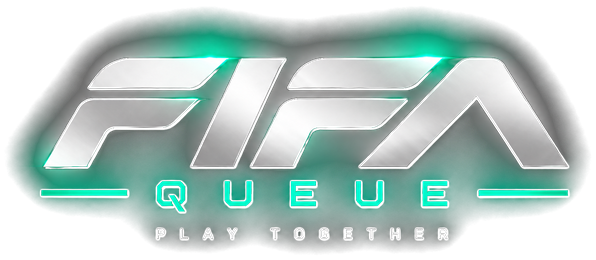
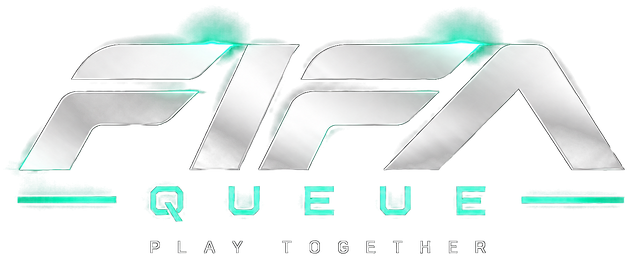
Actually cut the wordmark's diffuse bloom instead of just softening it
The luminance ramp from the previous fix still kept the whole soft
background glow, just with anti-aliased edges -- on a real device that
still reads as a grey cloud smeared behind the letters, not a halo.

The real issue: the background bloom and the letters' own chrome body
share the same tone (light grey/white), just spread over a much wider
area -- no single brightness cutoff can tell them apart. Switched to
two narrower, more specific signals instead: near-white and close to
achromatic for the chrome body/text, or a clear excess of green over
red/blue for the teal accent -- both ignore the diffuse bloom
entirely, since it is neither bright enough to pass the tighter white
cutoff nor saturated enough to read as teal. Spread each pixel's
brightness by a couple of px first (a max filter) so the tagline's
thin strokes do not drop below the cutoff just for being one pixel
wide.

Checked against both a light and a dark background this time, side by
side with the official mark for reference.

diff --git a/design/brand/generate_derivatives.py b/design/brand/generate_derivatives.py
@@ -12,7 +12,7 @@ como referencia historica.
 So faz resize/pad sobre fundo branco identico ao das artes originais -- nunca
 recorta, redesenha ou distorce o desenho.
 """
-from PIL import Image
+from PIL import Image, ImageFilter
 import numpy as np
 import os
 
@@ -41,30 +41,68 @@ def pad_to_square_white(im, canvas_size, content_fraction):
     return canvas
 
 
-def remove_black_background(im_rgb, low=45, high=110, crop_padding=20):
+def remove_black_background(
+    im_rgb,
+    bright_low=150,
+    bright_high=185,
+    teal_low=25,
+    teal_high=60,
+    peak_spread=3,
+    crop_padding=15,
+):
     """Usada no wordmark atual: arte cromada/teal com brilho proprio sobre um
-    fundo preto solido, com um glow radial largo em volta das letras (nao um
-    simbolo com letras escuras sobre fundo claro como a versao anterior --
-    por isso NAO usa mais corte por brilho).
+    fundo preto solido, com um glow radial LARGO e difuso em volta das letras
+    -- nao um simbolo com letras escuras sobre fundo claro como a versao
+    anterior, por isso nao e corte por chroma-key de uma cor so.
 
-    Alpha por luminancia (rampa suave de `low` a `high`), nao flood-fill
-    binario: um corte binario (dentro/fora de um raio de tolerancia da cor
-    preta) deixava a borda do glow com um contorno duro e irregular -- lia
-    como uma "nuvem" preta chapada por cima de fundo claro, em vez de um
-    brilho. A rampa suave faz esse limite desaparecer gradualmente qualquer
-    que seja o fundo (testado sobre branco e sobre preto). `low`/`high` altos
-    de proposito: cortam a maior parte do bloom difuso do fundo, deixando so
-    um halo justo perto das letras -- o glow mais amplo da arte original nao
-    sobrevive por bem sem fundo escuro fixo por tras.
+    Duas tentativas anteriores erraram pro lado contrario:
+    1. Flood-fill binario a partir da borda (so remove preto continguo):
+       qualquer pixel do glow que nao fosse "perto o suficiente" do preto
+       ficava 100% opaco -- contorno duro e irregular, lia como uma nuvem
+       preta chapada.
+    2. Rampa suave de alpha por luminancia sobre TODO o range de brilho:
+       reintroduz o mesmo bloom difuso so que com borda macia -- ainda uma
+       nuvem visivel, so com menos serrilhado.
 
-    Corta pro bounding box do conteudo visivel (+ padding) pra nao sobrar
-    moldura transparente enorme quando exibido por altura fixa. A arte ja tem
-    contraste proprio em qualquer fundo, entao BrandWordmark NAO aplica mais
-    inversao de cor no dark mode (isso so fazia sentido pra tinta solida da
-    versao anterior)."""
+    A saida real e reconhecer que "letra" e "glow difuso de fundo" nao se
+    separam por um unico corte de brilho: o bloom do fundo tem o MESMO tom
+    (cinza claro / branco) que a carroceria cromada das letras, so que
+    espalhado por uma area enorme. Em vez de brilho absoluto, dois sinais
+    mais especificos:
+    - `bright_*`: cinza/branco quase neutro E bem acima do bloom mais forte
+      (que nunca chega no branco puro da chapa cromada) -- pega corpo das
+      letras e do texto, ignora o glow.
+    - `teal_*`: canais G bem acima de R/B (o ciano da arte), captura QUEUE,
+      as linhas do traco e os dois pontos de brilho ciano no topo -- sem
+      depender de brilho absoluto, so da cor.
+
+    Traco fino (o "PLAY TOGETHER") tem so 1-2px de nucleo brilhante depois
+    do anti-aliasing original, mais fino que a rampa `bright_*` sozinha
+    capturava por inteiro -- por isso o brilho e espalhado (`peak_spread`,
+    um max-filter) antes do corte: qualquer pixel a poucos px de um pico
+    de brilho conta como parte do traco, sem alargar perceptivelmente o
+    contorno das letras grandes (que ja eram solidas).
+
+    Corta pro bounding box do conteudo visivel (+ padding). A arte ja tem
+    contraste proprio em qualquer fundo, entao BrandWordmark NAO aplica
+    inversao de cor no dark mode."""
     arr = np.array(im_rgb).astype(float)
     luma = 0.299 * arr[:, :, 0] + 0.587 * arr[:, :, 1] + 0.114 * arr[:, :, 2]
-    alpha = np.clip((luma - low) / (high - low) * 255, 0, 255).astype(np.uint8)
+    teal_chroma = arr[:, :, 1] - np.maximum(arr[:, :, 0], arr[:, :, 2])
+
+    luma_img = Image.fromarray(np.clip(luma, 0, 255).astype(np.uint8), mode="L")
+    luma_spread = np.array(luma_img.filter(ImageFilter.MaxFilter(peak_spread))).astype(
+        float
+    )
+
+    bright_alpha = np.clip(
+        (luma_spread - bright_low) / (bright_high - bright_low) * 255, 0, 255
+    )
+    teal_alpha = np.clip(
+        (teal_chroma - teal_low) / (teal_high - teal_low) * 255, 0, 255
+    )
+    alpha = np.clip(np.maximum(bright_alpha, teal_alpha), 0, 255).astype(np.uint8)
+
     rgba = np.dstack([arr.astype(np.uint8), alpha])
     out = Image.fromarray(rgba, mode="RGBA")
 
